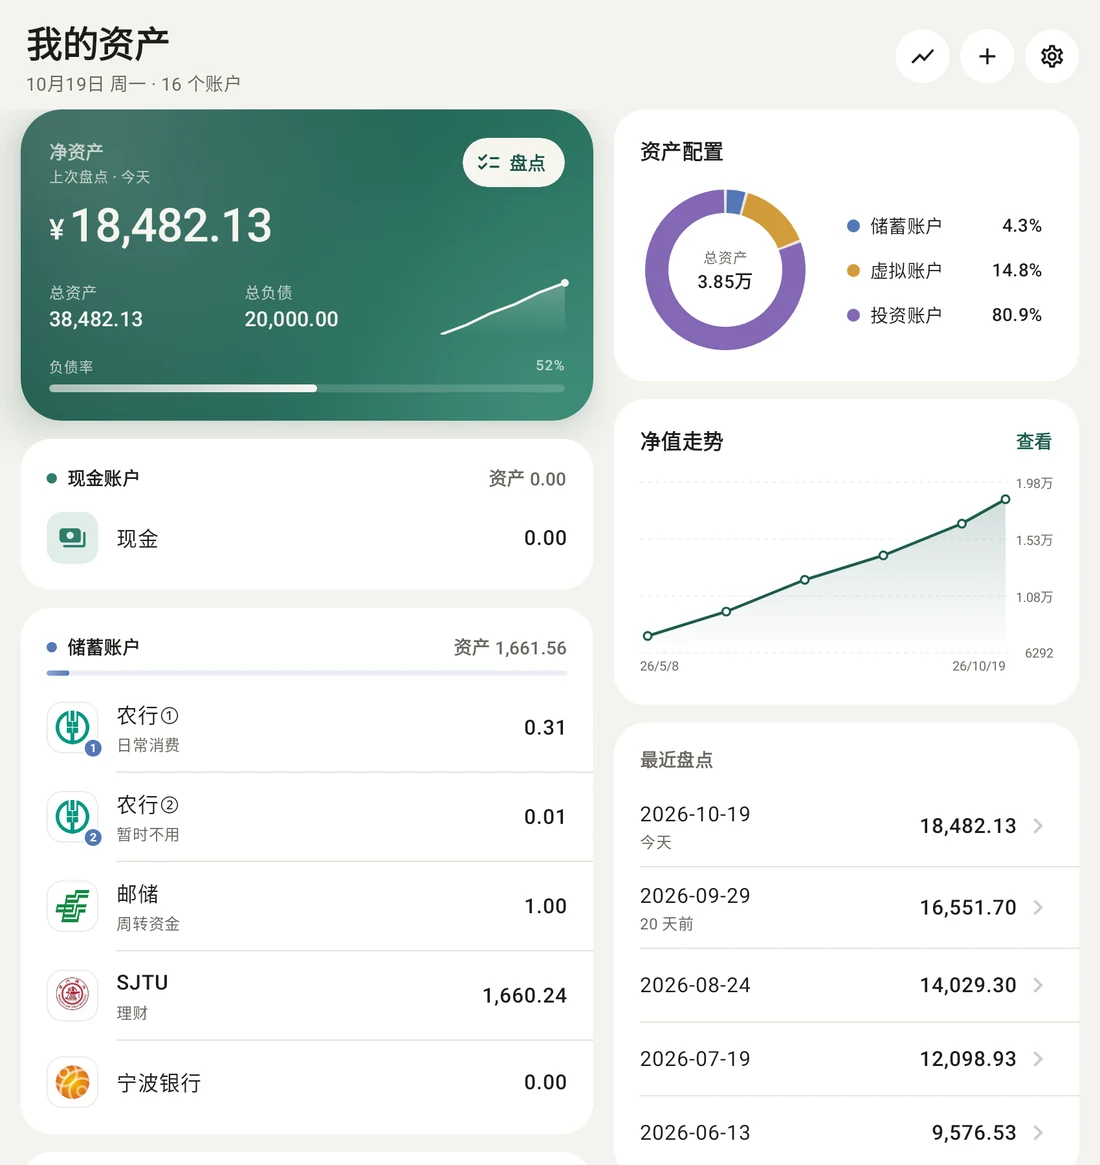
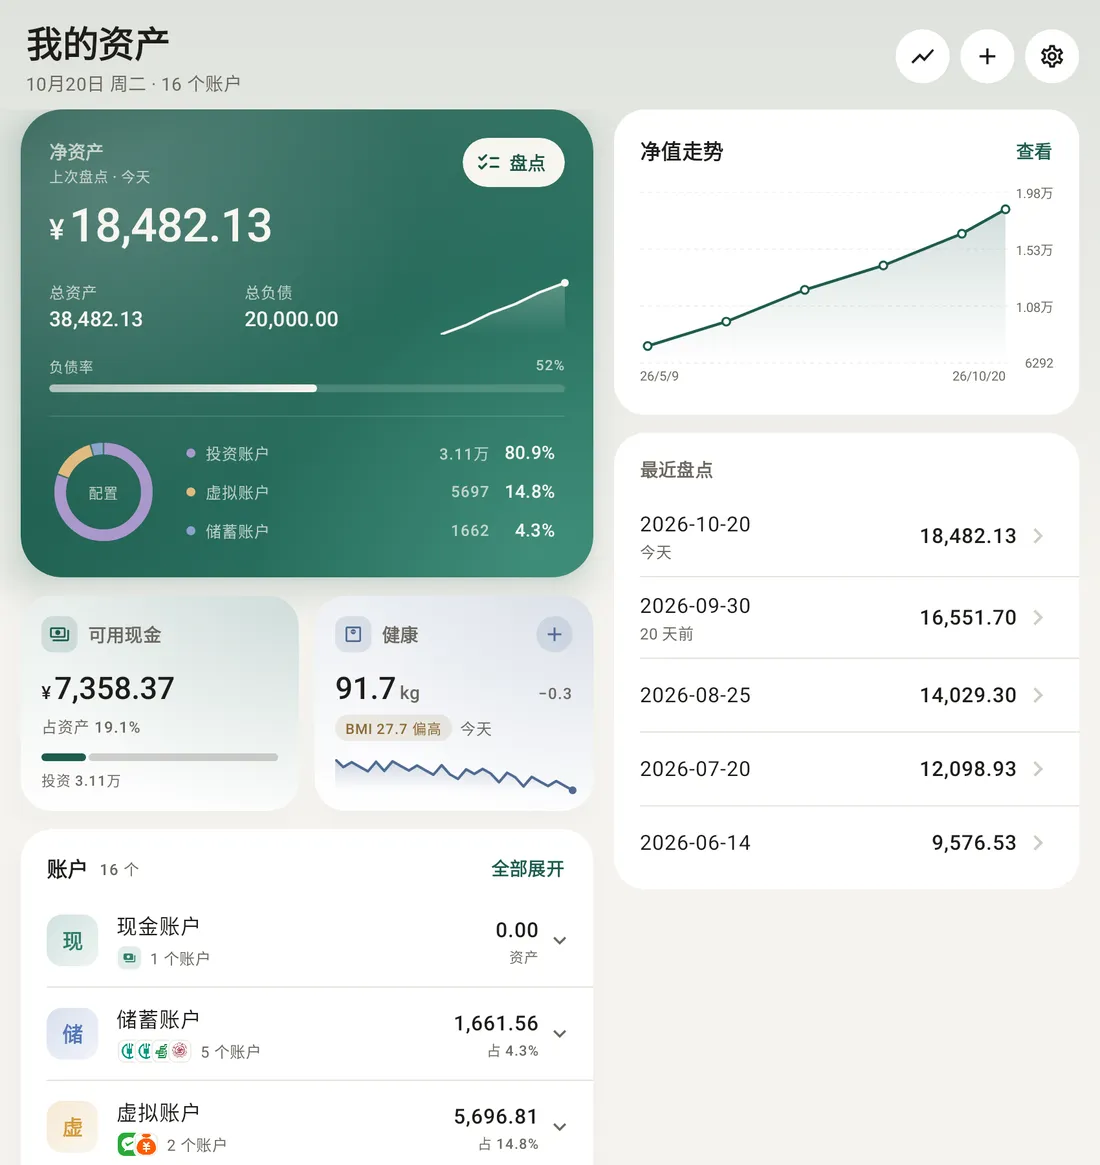
Refresh README screenshots for 0.5.0
The overview shots (phone, dark, unfolded) show the redesigned assets
tab with a weigh-in history, and the gallery gains the health page,
body composition, the cash sheet and health in dark mode.

diff --git a/app/src/test/java/com/assetboard/ui/ScreenshotTest.kt b/app/src/test/java/com/assetboard/ui/ScreenshotTest.kt
@@ -145,13 +145,13 @@ class ScreenshotTest {
     }
 
     @Test fun overviewDark() {
-        val c = demoContainer()
+        val c = withHealth(demoContainer())
         shot("02-overview-dark", c, dark = true) { OverviewScreen({}, noop, {}, noop, noop, {}) }
     }
 
     @Config(qualifiers = "w850dp-h900dp-xhdpi")
     @Test fun overviewUnfolded() {
-        val c = demoContainer()
+        val c = withHealth(demoContainer())
         shot("03-overview-unfolded", c) { OverviewScreen({}, noop, {}, noop, noop, {}) }
     }
 

diff --git a/README.en.md b/README.en.md
@@ -48,7 +48,7 @@ This app is built for it. One stocktake walks every account, you change the thre
 - **Health as an asset**: weigh in once a day, record weight (body fat optional), and follow weight, body fat and BMI with a 7-day average; BMI and body-fat grades, fat and lean mass, progress to a target and a nine-cell body type. A day without a weigh-in simply stays empty — no interpolation, no streaks.
 - **Home-screen widget**: net worth plus a one-tap stocktake.
 
-<img src="docs/images/01-overview.webp" width="24%" alt="Asset overview"> <img src="docs/images/03-stocktake.webp" width="24%" alt="Stocktake"> <img src="docs/images/04-trend.webp" width="24%" alt="Net worth trend"> <img src="docs/images/07-account-investment.webp" width="24%" alt="Investment account">
+<img src="docs/images/01-overview.webp" width="24%" alt="Asset overview"> <img src="docs/images/28-health.webp" width="24%" alt="Health"> <img src="docs/images/04-trend.webp" width="24%" alt="Net worth trend"> <img src="docs/images/07-account-investment.webp" width="24%" alt="Investment account">
 
 ### Todo
 
@@ -83,6 +83,8 @@ This app is built for it. One stocktake walks every account, you change the thre
 <br>
 
 <img src="docs/images/02-overview-dark.webp" width="24%" alt="Asset overview, dark"> <img src="docs/images/09-account-edit.webp" width="24%" alt="Account settings"> <img src="docs/images/10-flow-buy.webp" width="24%" alt="Buy flow"> <img src="docs/images/08-account-cash.webp" width="24%" alt="Cash account">
+
+<img src="docs/images/03-stocktake.webp" width="24%" alt="Stocktake"> <img src="docs/images/30-cash.webp" width="24%" alt="Cash at hand"> <img src="docs/images/29-health-figures.webp" width="24%" alt="Body composition"> <img src="docs/images/31-health-dark.webp" width="24%" alt="Health, dark">
 
 <img src="docs/images/13-todo-upcoming.webp" width="24%" alt="Upcoming"> <img src="docs/images/14-todo-list.webp" width="24%" alt="List with sections"> <img src="docs/images/17-todo-inbox.webp" width="24%" alt="Inbox"> <img src="docs/images/16-todo-dark.webp" width="24%" alt="Todo, dark">
 

diff --git a/README.md b/README.md
@@ -48,7 +48,7 @@
 - **健康资产**：每天称一次，记体重（体脂率可选），看体重 / 体脂率 / BMI 三条曲线与 7 天平均；BMI、体脂分级、脂肪量、去脂体重、目标进度与九格身体类型。没称的日子就空着，不补点、不断签。
 - **桌面小组件**：净资产 + 一键盘点。
 
-<img src="docs/images/01-overview.webp" width="24%" alt="资产总览"> <img src="docs/images/03-stocktake.webp" width="24%" alt="盘点"> <img src="docs/images/04-trend.webp" width="24%" alt="净值趋势"> <img src="docs/images/07-account-investment.webp" width="24%" alt="投资账户">
+<img src="docs/images/01-overview.webp" width="24%" alt="资产总览"> <img src="docs/images/28-health.webp" width="24%" alt="健康资产"> <img src="docs/images/04-trend.webp" width="24%" alt="净值趋势"> <img src="docs/images/07-account-investment.webp" width="24%" alt="投资账户">
 
 ### 待办
 
@@ -83,6 +83,8 @@
 <br>
 
 <img src="docs/images/02-overview-dark.webp" width="24%" alt="资产总览（深色）"> <img src="docs/images/09-account-edit.webp" width="24%" alt="账户设置"> <img src="docs/images/10-flow-buy.webp" width="24%" alt="申购流水"> <img src="docs/images/08-account-cash.webp" width="24%" alt="现金账户">
+
+<img src="docs/images/03-stocktake.webp" width="24%" alt="盘点"> <img src="docs/images/30-cash.webp" width="24%" alt="可用现金"> <img src="docs/images/29-health-figures.webp" width="24%" alt="身体成分"> <img src="docs/images/31-health-dark.webp" width="24%" alt="健康资产（深色）">
 
 <img src="docs/images/13-todo-upcoming.webp" width="24%" alt="计划"> <img src="docs/images/14-todo-list.webp" width="24%" alt="清单与分区"> <img src="docs/images/17-todo-inbox.webp" width="24%" alt="收件箱"> <img src="docs/images/16-todo-dark.webp" width="24%" alt="待办（深色）">
 
